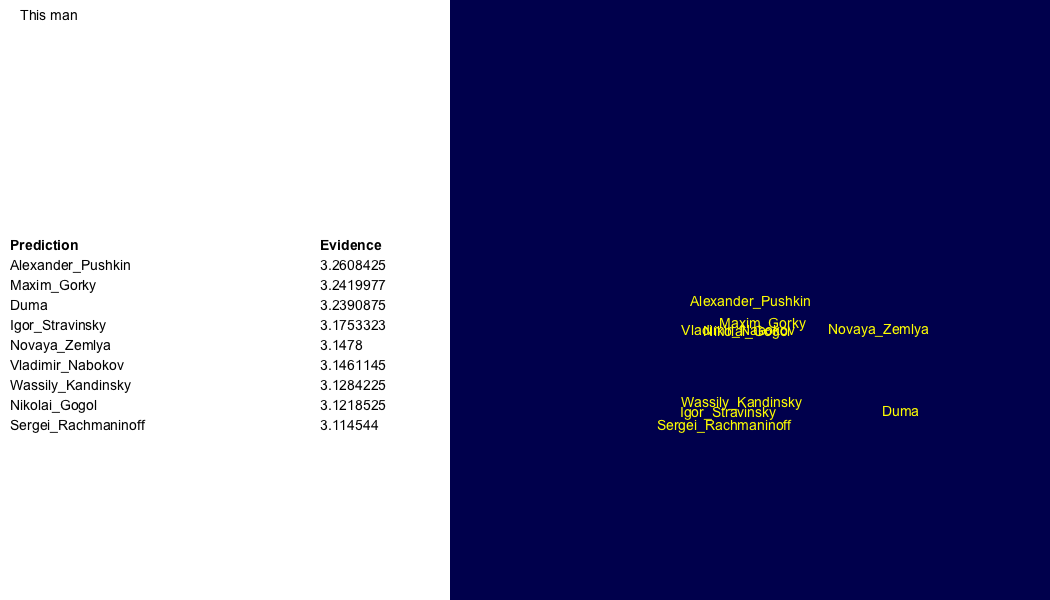
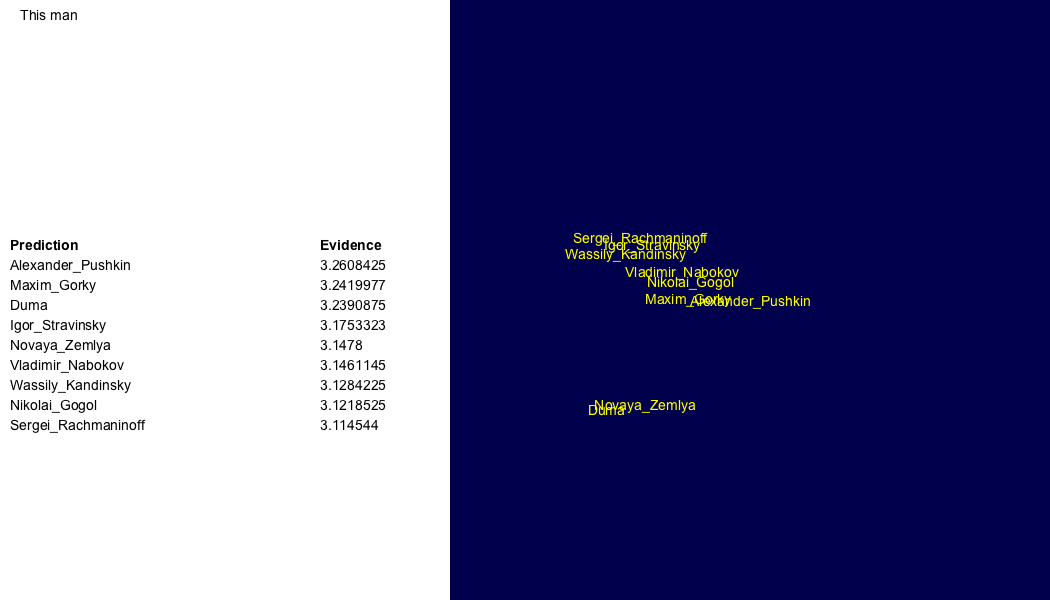
Force mean the right way

diff --git a/visualization.py b/visualization.py
@@ -216,19 +216,18 @@ def visualize( guesses_data=None, cached_wikipedia=None, w2vmodel=None ):
 			# shift vectors to center around top guess
 			top_guess = numpy.copy( vectors[0] )
 
-			# add a strut to change the mean
+			# add a strut to force the mean to be the top guess
+			strut = []
+			for x in range( 0, len(top_guess) ):
+				sum_column = 0
+				for vector in vectors:
+					sum_column += vector[x]
+				strut.append( top_guess[x] * ( len(vectors) + 1 ) - sum_column )
 			# strut = numpy.subtract( numpy.multiply( top_guess, len(vectors ) ), numpy.sum( vectors[1:] ) )
-			# vectors.append( strut )
-			# print( vectors[0][0] )
+			vectors.append( strut )
 			vectors2d = reduce_to_2d(numpy.array(vectors))
-			# vectors2d = vectors2d[:-1].copy() # remove strut
-			# print( vectors2d )
-
-			top_guess = numpy.copy( vectors2d[0] )
-			# print( top_guess )
-			for k in range(0, len(vectors2d)):
-				vectors2d[k] = numpy.subtract( vectors2d[k], top_guess )
-			print( vectors2d[0] )
+			vectors2d = vectors2d[:-1].copy() # remove strut
+			print( vectors2d )
 
 			# add 2d vector to each guess info array
 			for k in range(0, len(vectors2d)):
